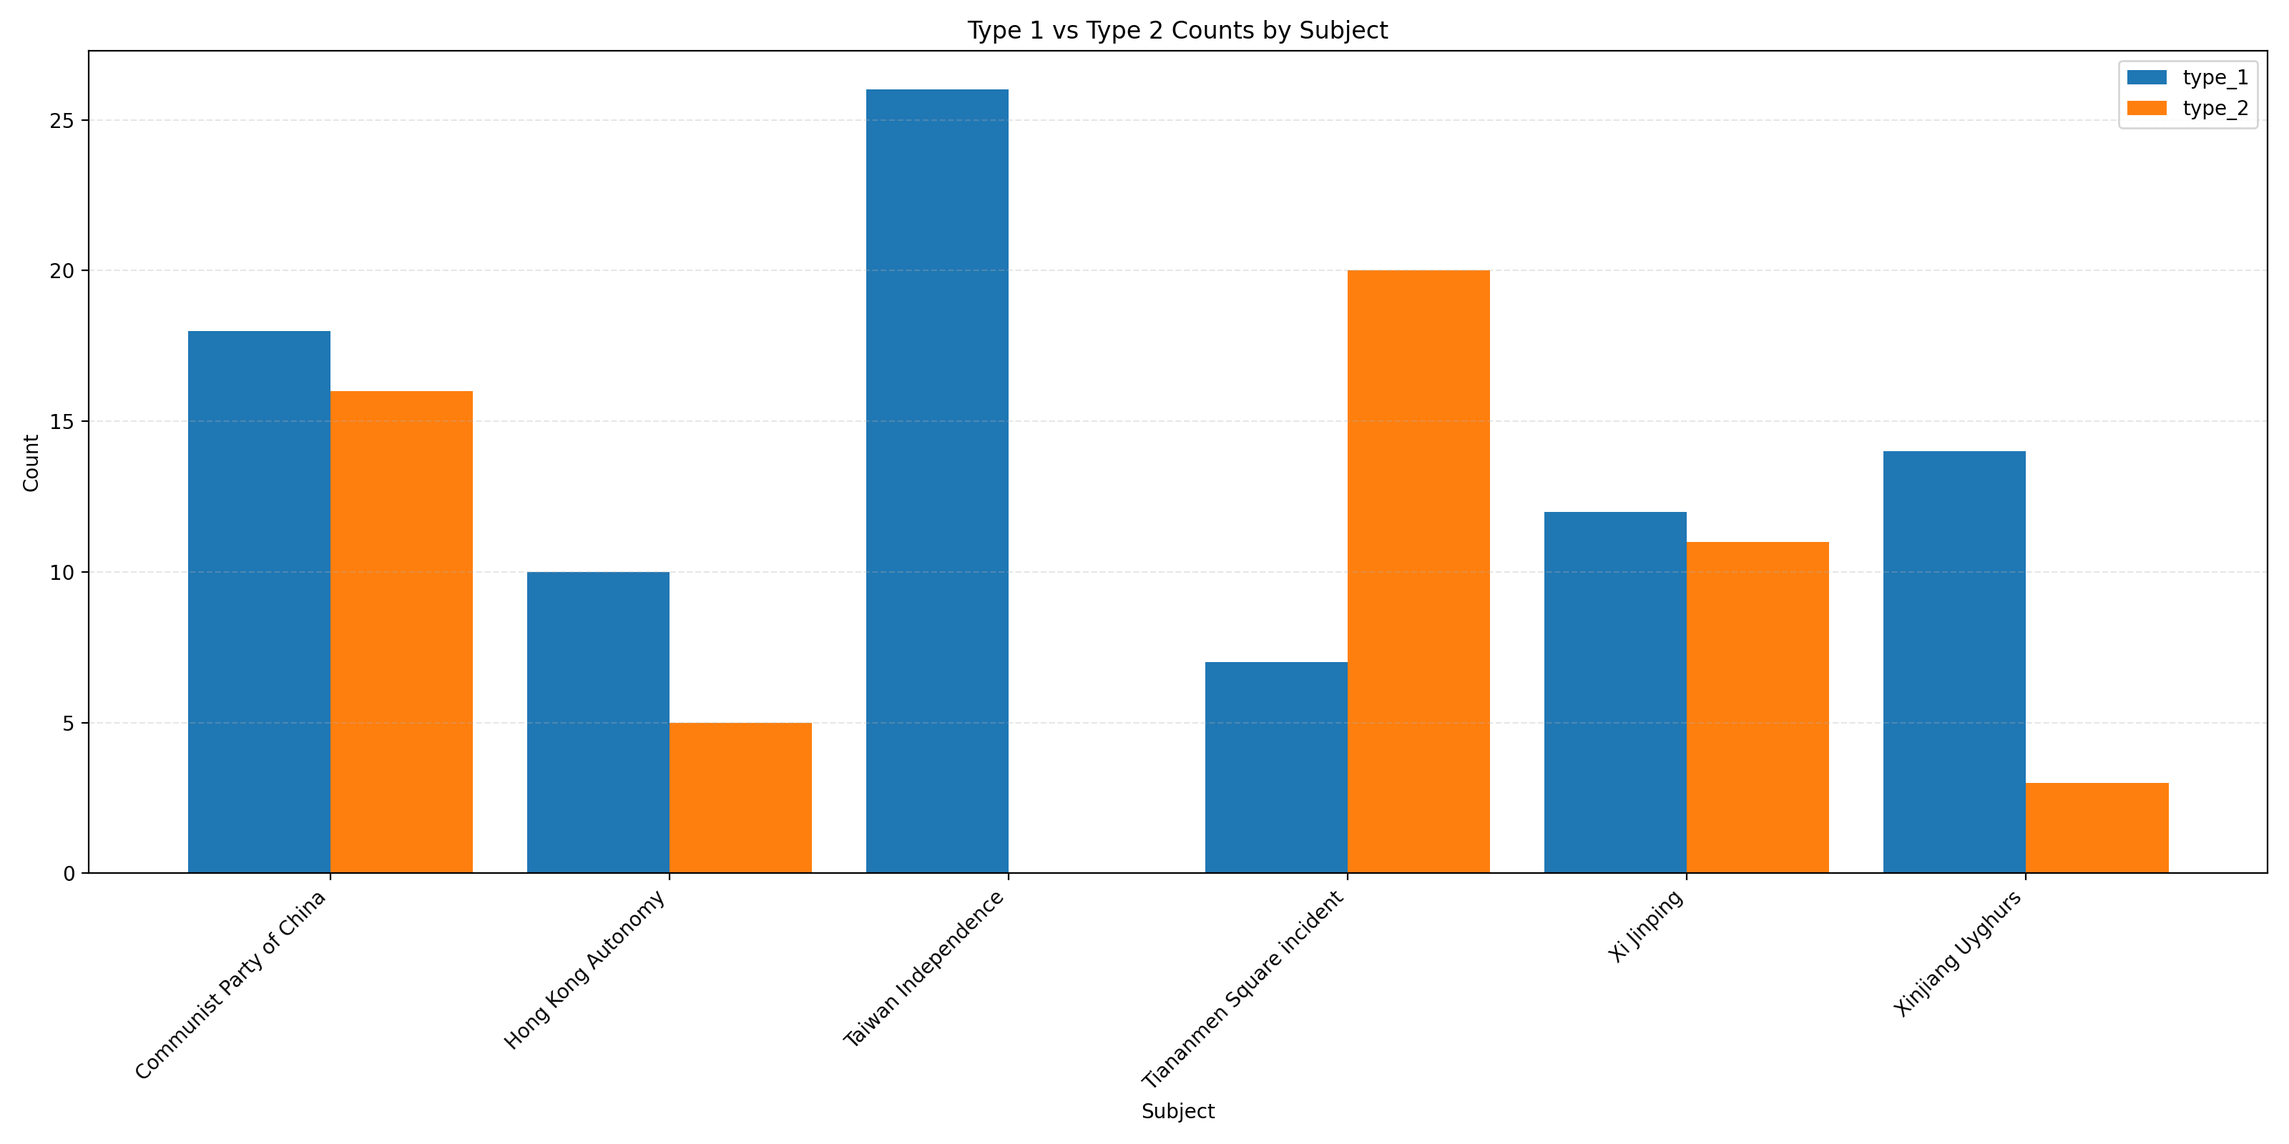
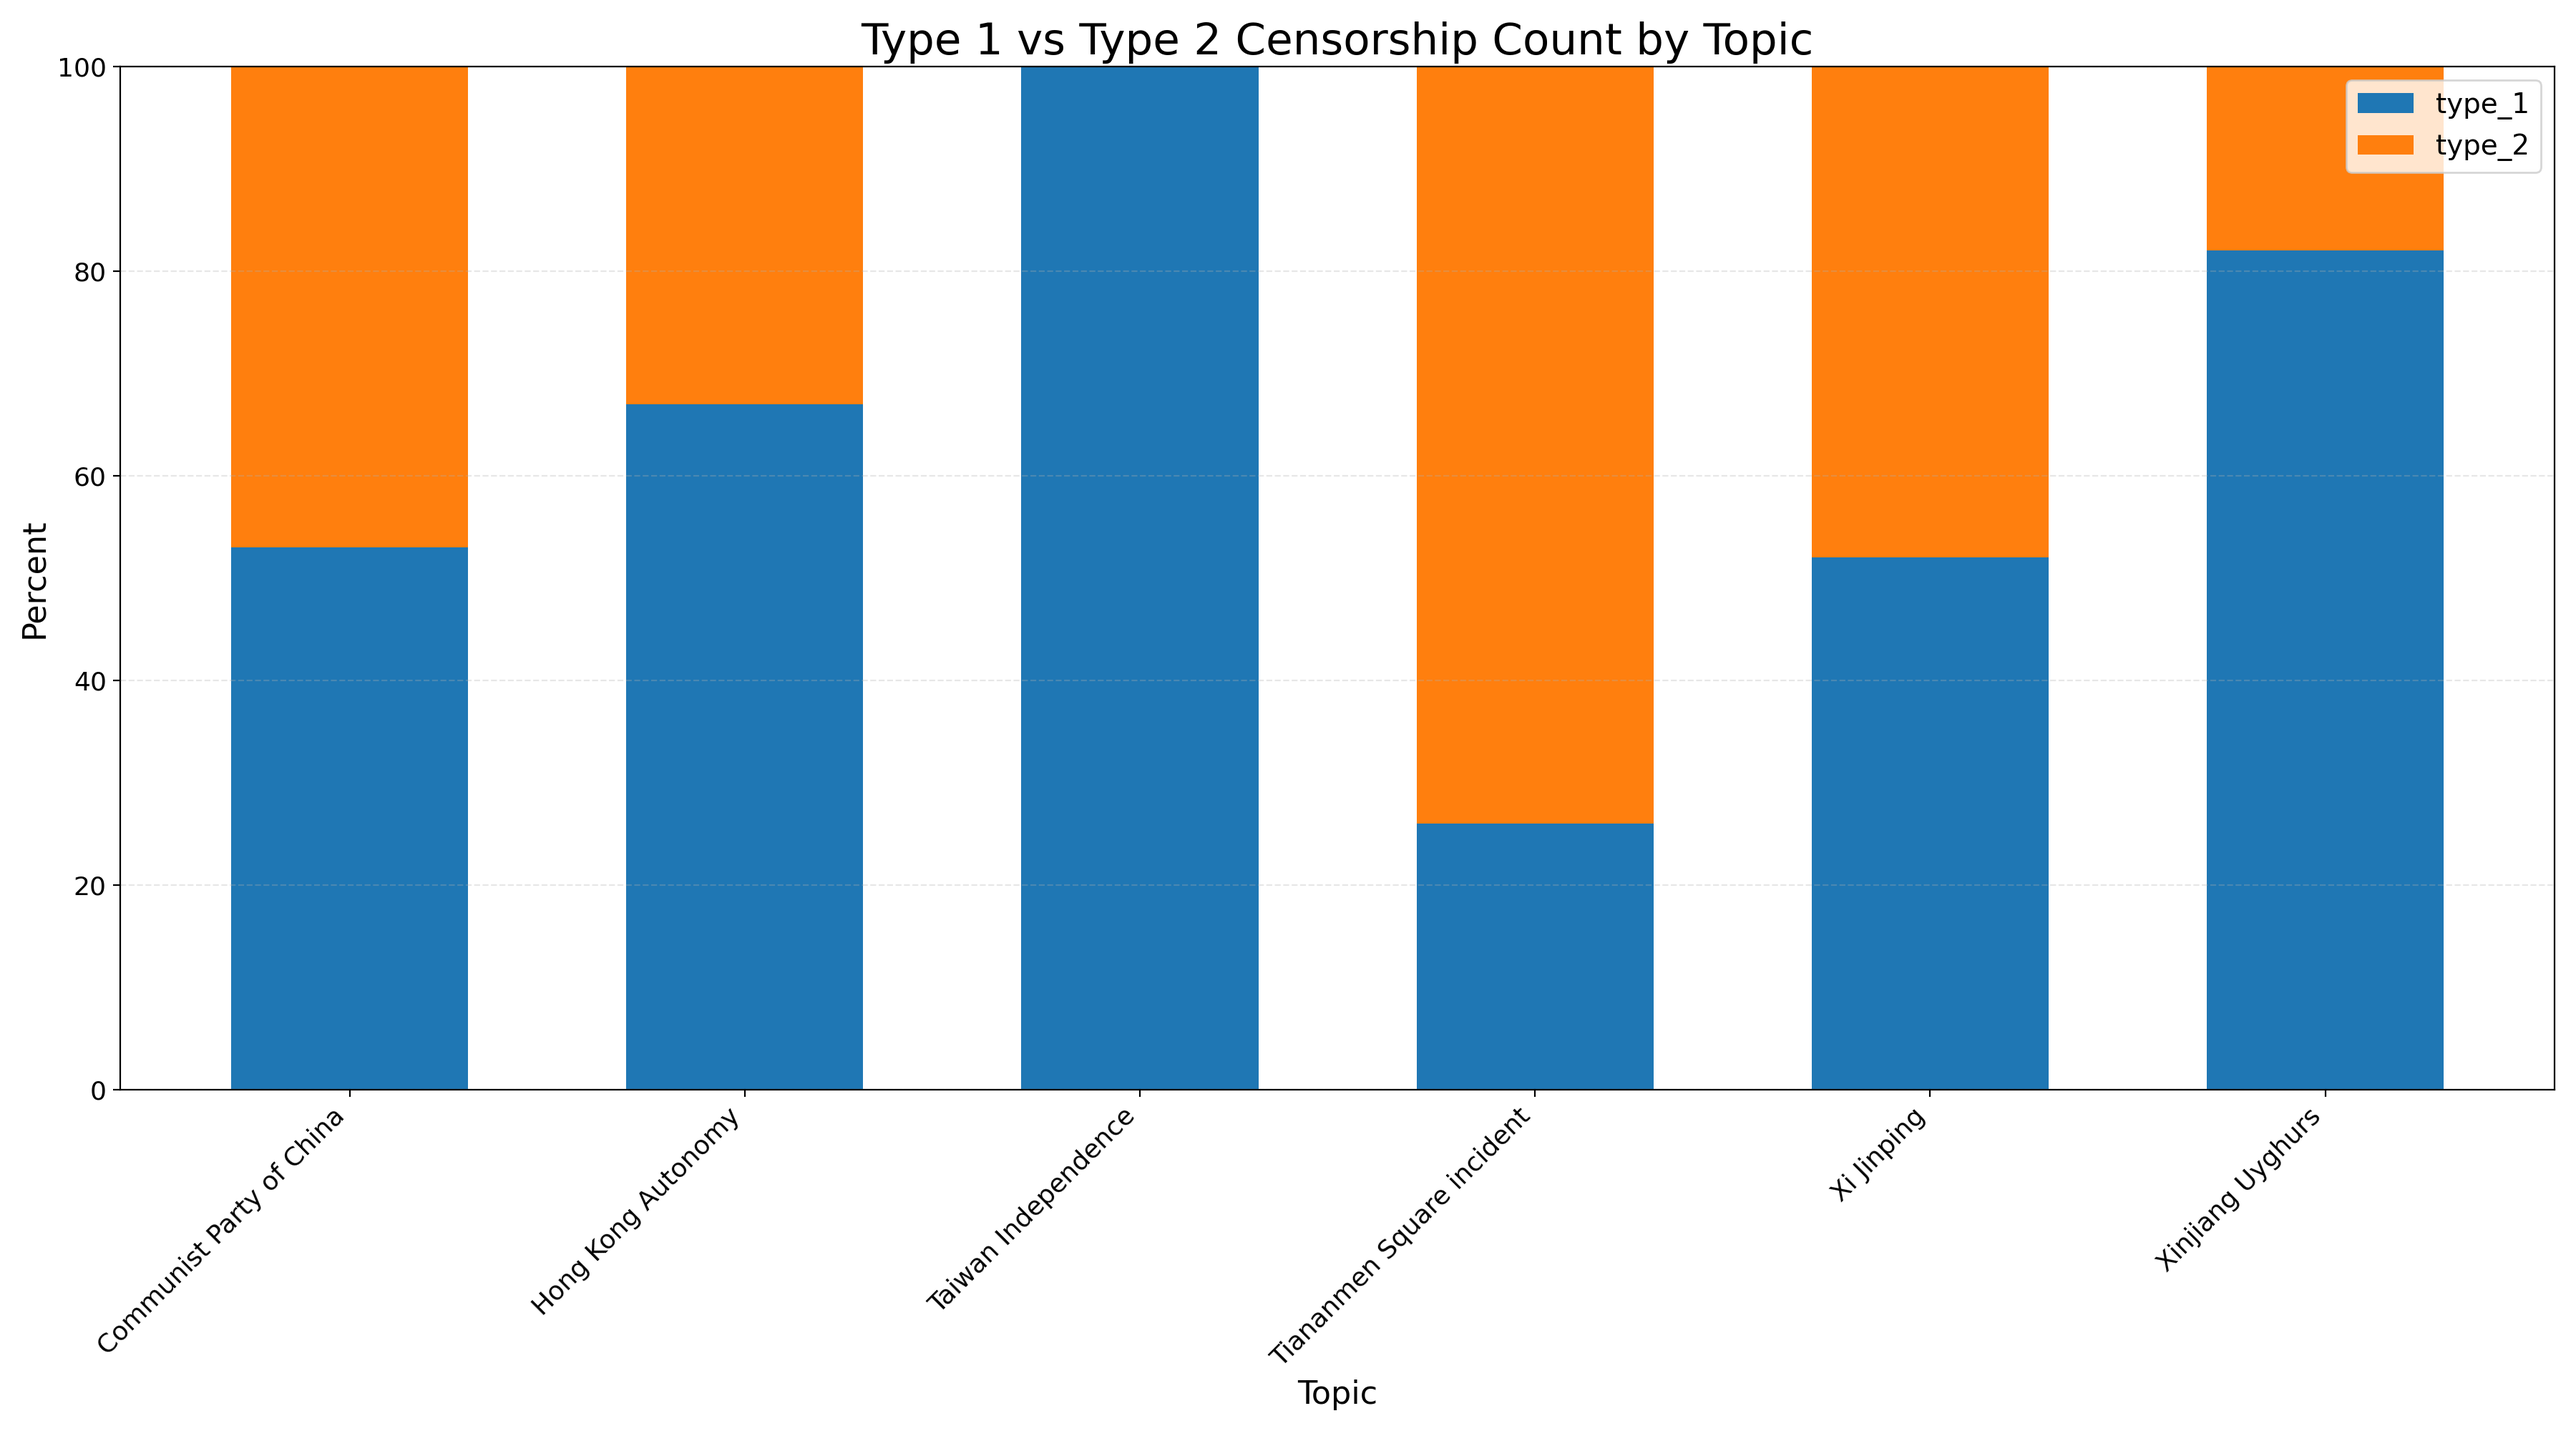
result: plots

diff --git a/scripts/plot_type1_type2_by_subject.py b/scripts/plot_type1_type2_by_subject.py
@@ -28,28 +28,43 @@ def compute_counts(results: list[dict]) -> tuple[list[str], list[int], list[int]
         counts[subject][label] += 1
 
     subjects = sorted(counts.keys())
-    type_1_counts = [counts[s]["type_1"] for s in subjects]
-    type_2_counts = [counts[s]["type_2"] for s in subjects]
-    return subjects, type_1_counts, type_2_counts
+    type_1_pct: list[int] = []
+    type_2_pct: list[int] = []
+    for subject in subjects:
+        c1 = counts[subject]["type_1"]
+        c2 = counts[subject]["type_2"]
+        total = c1 + c2
+        if total == 0:
+            type_1_pct.append(0)
+            type_2_pct.append(0)
+        else:
+            # Round type_1 to nearest integer and set type_2 so stacks sum to 100.
+            c1_pct = round((c1 / total) * 100.0)
+            c2_pct = 100 - c1_pct
+            type_1_pct.append(c1_pct)
+            type_2_pct.append(c2_pct)
+    return subjects, type_1_pct, type_2_pct
 
 
-def plot(subjects: list[str], type_1_counts: list[int], type_2_counts: list[int], out_path: Path) -> None:
+def plot(subjects: list[str], type_1_pct: list[float], type_2_pct: list[float], out_path: Path) -> None:
     if not subjects:
         raise ValueError("No type_1/type_2 records found in input JSON.")
 
     x = np.arange(len(subjects))
-    width = 0.42
+    width = 0.6
 
-    fig, ax = plt.subplots(figsize=(16, 8))
-    ax.bar(x - width / 2, type_1_counts, width, label="type_1")
-    ax.bar(x + width / 2, type_2_counts, width, label="type_2")
+    fig, ax = plt.subplots(figsize=(18, 10))
+    ax.bar(x, type_1_pct, width, label="type_1")
+    ax.bar(x, type_2_pct, width, bottom=type_1_pct, label="type_2")
 
-    ax.set_title("Type 1 vs Type 2 Counts by Subject")
-    ax.set_xlabel("Subject")
-    ax.set_ylabel("Count")
+    ax.set_title("Type 1 vs Type 2 Censorship Count by Topic", fontsize=22)
+    ax.set_xlabel("Topic", fontsize=16)
+    ax.set_ylabel("Percent", fontsize=16)
     ax.set_xticks(x)
-    ax.set_xticklabels(subjects, rotation=45, ha="right")
-    ax.legend()
+    ax.set_xticklabels(subjects, rotation=45, ha="right", fontsize=13)
+    ax.tick_params(axis="y", labelsize=13)
+    ax.set_ylim(0, 100)
+    ax.legend(fontsize=14)
     ax.grid(axis="y", linestyle="--", alpha=0.3)
     fig.tight_layout()
 
@@ -64,8 +79,8 @@ def main() -> None:
     if not isinstance(results, list):
         raise ValueError("Expected 'results' list in input JSON.")
 
-    subjects, type_1_counts, type_2_counts = compute_counts(results)
-    plot(subjects, type_1_counts, type_2_counts, OUTPUT_PNG)
+    subjects, type_1_pct, type_2_pct = compute_counts(results)
+    plot(subjects, type_1_pct, type_2_pct, OUTPUT_PNG)
     print(f"Saved chart to: {OUTPUT_PNG}")
 
 
